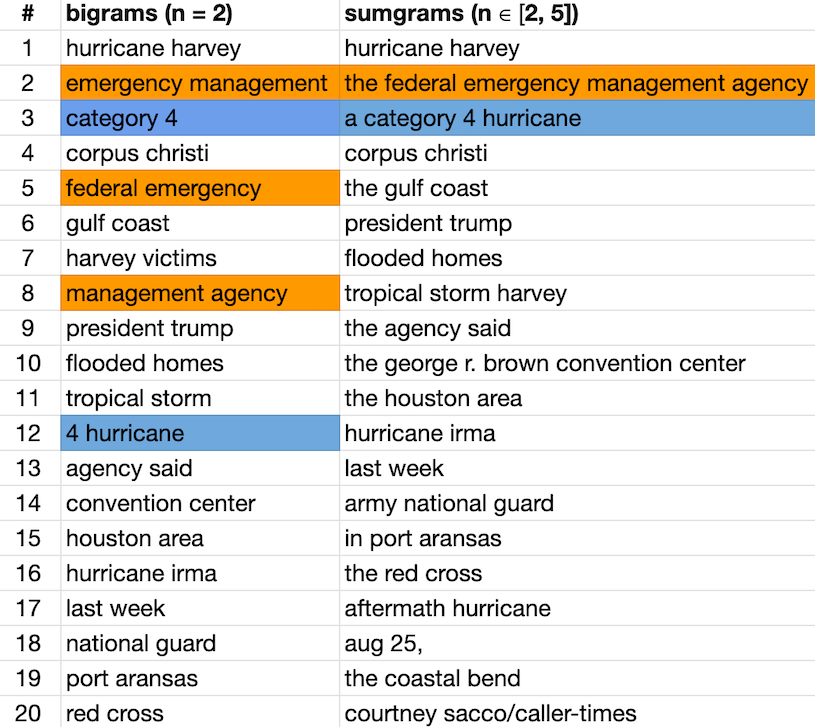
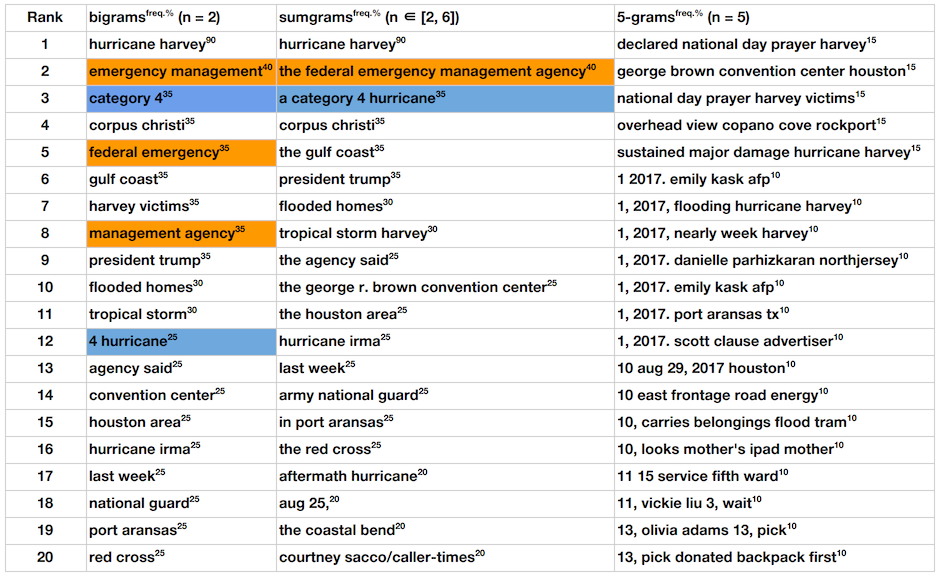
readme: added freq. in images, added sumgram key in JSON output

diff --git a/sumgram/sumgram.py b/sumgram/sumgram.py
@@ -494,7 +494,7 @@ def rank_mltwd_proper_nouns(ngram, ngram_toks, sentences, params=None):
 	ngram = ngram.strip()
 
 	if( sent_count == 1 or ngram == '' ):
-		#it's possible for ngram = '', search for 'ngram_history'
+		#it's possible for ngram = '', search for 'sumgram_history'
 		return ''
 
 	window_size = 0
@@ -670,8 +670,8 @@ def pos_glue_split_ngrams(top_ngrams, k, pos_glue_split_ngrams_coeff, ranked_mul
 						
 						multi_word_proper_noun_dedup_set.add(multi_word_proper_noun)
 
-					top_ngrams[i].setdefault('ngram_history', [])
-					top_ngrams[i]['ngram_history'].append(new_ngram_dct)
+					top_ngrams[i].setdefault('sumgram_history', [])
+					top_ngrams[i]['sumgram_history'].append(new_ngram_dct)
 				
 				break
 
@@ -730,8 +730,8 @@ def mvg_window_glue_split_ngrams(top_ngrams, k, all_doc_sentences, params=None):
 
 				multi_word_proper_noun_dedup_set.add( multi_word_proper_noun['proper_noun'] )
 
-			top_ngrams[i].setdefault('ngram_history', [])
-			top_ngrams[i]['ngram_history'].append(new_ngram_dct)
+			top_ngrams[i].setdefault('sumgram_history', [])
+			top_ngrams[i]['sumgram_history'].append(new_ngram_dct)
 
 		if( params['no_parent_sentences'] == False ):
 			top_ngrams[i]['parent_sentences'] = phrase_cands_minus_toks
@@ -821,8 +821,8 @@ def rm_subset_top_ngrams(top_ngrams, k, rm_subset_top_ngrams_coeff, params):
 								'cur_ngram': parent_ngram_cand,
 								'annotator': 'subset'
 							}
-							top_ngrams[child_indx].setdefault('ngram_history', [])
-							top_ngrams[child_indx]['ngram_history'].append(new_ngram_dct)
+							top_ngrams[child_indx].setdefault('sumgram_history', [])
+							top_ngrams[child_indx]['sumgram_history'].append(new_ngram_dct)
 
 							logger.debug('\teven though parent (' + str(parent_indx) + ') is in lower index than child: ' + str(child_indx))
 							logger.debug('\treplacing child_ngram_cand:' + '"' + child_ngram_cand + '" with parent_ngram_cand: "' + parent_ngram_cand + '"')
@@ -841,7 +841,7 @@ def rm_subset_top_ngrams(top_ngrams, k, rm_subset_top_ngrams_coeff, params):
 
 	return top_ngrams
 	
-def print_top_ngrams(n, top_ngrams, top_ngram_count, params=None):
+def print_top_ngrams(n, top_ngrams, top_sumgram_count, params=None):
 
 	if( params is None ):
 		params = {}
@@ -852,14 +852,14 @@ def print_top_ngrams(n, top_ngrams, top_ngram_count, params=None):
 	mw = params['ngram_printing_mw']
 	ngram_count = len(top_ngrams)
 
-	logger.info('Summary for ' + str(ngram_count) + ' top n-grams (base n: ' + str(n) + '):')
+	logger.info('Summary for ' + str(ngram_count) + ' top sumgrams (base n: ' + str(n) + '):')
 	logger.info('')
 
 	if( params['title'] != '' ):
 		logger.info( params['title'] )
 
-	logger.info( '{:^6} {:<{mw}} {:^6} {:<6}'.format('rank', 'ngram', 'TF', 'TF-Rate', mw=mw) )
-	for i in range(top_ngram_count):
+	logger.info( '{:^6} {:<{mw}} {:^6} {:<6}'.format('rank', 'sumgram', 'TF', 'TF-Rate', mw=mw) )
+	for i in range(top_sumgram_count):
 		
 		if( i == ngram_count ):
 			break
@@ -975,7 +975,7 @@ def get_user_stopwords(comma_sep_stopwords):
 	add_stopwords = comma_sep_stopwords.split(',')
 	return set( [s.strip().lower() for s in add_stopwords] )
 
-def get_top_ngrams(doc_dct_lst, n=2, params=None):
+def get_top_sumgrams(doc_dct_lst, n=2, params=None):
 	
 	np.set_printoptions(threshold=np.inf, linewidth=120)
 
@@ -995,7 +995,7 @@ def get_top_ngrams(doc_dct_lst, n=2, params=None):
 	params.setdefault('binary_tf_flag', True)#Multiple occurrence of term T in a document counts as 1, TF = total number of times term appears in collection
 	params['stanford_corenlp_server'] = nlpIsServerOn()
 
-	logger.info('\nget_top_ngram():')
+	logger.info('\nget_top_sumgrams():')
 	if( params['stanford_corenlp_server'] == False ):
 		
 		logger.info('\n\tAttempting to start Stanford CoreNLP Server (we need it to segment sentences)\n')
@@ -1035,8 +1035,8 @@ def get_top_ngrams(doc_dct_lst, n=2, params=None):
 	if( len(top_ngrams) == 0 ):
 		return report
 	
-	if( params['top_ngram_count'] < 1 or params['top_ngram_count'] > len(top_ngrams) ):
-		params['top_ngram_count'] = len(top_ngrams)
+	if( params['top_sumgram_count'] < 1 or params['top_sumgram_count'] > len(top_ngrams) ):
+		params['top_sumgram_count'] = len(top_ngrams)
 	
 	'''
 		shifting is off by default
@@ -1044,7 +1044,7 @@ def get_top_ngrams(doc_dct_lst, n=2, params=None):
 		this may be required for comparing two different collections that have similar top terms
 		so shifting is an attempt to perform process non-top terms in order to find distinguishing ngrams below the top ngrams
 	'''
-	shift_factor = params['shift'] * params['top_ngram_count']	
+	shift_factor = params['shift'] * params['top_sumgram_count']	
 	if( shift_factor >= len(top_ngrams) ):
 		shift_factor = 0
 
@@ -1069,45 +1069,45 @@ def get_top_ngrams(doc_dct_lst, n=2, params=None):
 		params['tf_label'] = 'Collection Term Frequency (1 term count per document)'
 
 	params['tf_normalizing_divisor'] = N
-	report = { 'n': n, 'top_ngram_count': params['top_ngram_count']}
+	report = { 'n': n, 'top_sumgram_count': params['top_sumgram_count']}
 
 	logger.info('\tdoc_lst.len:' + str(doc_count))
 	logger.info('\ntop ngrams before finding multi-word proper nouns:')
-	print_top_ngrams( n, top_ngrams, params['top_ngram_count'], params=params )
+	print_top_ngrams( n, top_ngrams, params['top_sumgram_count'], params=params )
 	
 	if( params['no_pos_glue_split_ngrams'] == False ):
-		pos_glue_split_ngrams( top_ngrams, params['top_ngram_count'] * 2, params['pos_glue_split_ngrams_coeff'], multi_word_proper_nouns, params )
+		pos_glue_split_ngrams( top_ngrams, params['top_sumgram_count'] * 2, params['pos_glue_split_ngrams_coeff'], multi_word_proper_nouns, params )
 
-	#subset top_ngrams will be replace with their supersets, thus shrinking top_ngram_count counts after this operation, so maximize the chances of reporting user-supplied c, begin by processing: top_ngram_count * 2
+	#subset top_ngrams will be replace with their supersets, thus shrinking top_sumgram_count counts after this operation, so maximize the chances of reporting user-supplied c, begin by processing: top_sumgram_count * 2
 	if( params['no_mvg_window_glue_split_ngrams'] == False ):
-		mvg_window_glue_split_ngrams( top_ngrams, params['top_ngram_count'] * 2, all_doc_sentences, params=params )
+		mvg_window_glue_split_ngrams( top_ngrams, params['top_sumgram_count'] * 2, all_doc_sentences, params=params )
 	
 	logger.info('\ntop ngrams after finding multi-word proper nouns:')
-	print_top_ngrams( n, top_ngrams, params['top_ngram_count'], params=params )
+	print_top_ngrams( n, top_ngrams, params['top_sumgram_count'], params=params )
 	
-	top_ngrams = rm_subset_top_ngrams( top_ngrams, params['top_ngram_count'] * 2, params['rm_subset_top_ngrams_coeff'], params )
+	top_ngrams = rm_subset_top_ngrams( top_ngrams, params['top_sumgram_count'] * 2, params['rm_subset_top_ngrams_coeff'], params )
 	logger.info('\ntop ngrams after removing subset phrases:')
-	print_top_ngrams( n, top_ngrams, params['top_ngram_count'], params=params )
+	print_top_ngrams( n, top_ngrams, params['top_sumgram_count'], params=params )
 
-	top_ngrams = rm_empty_ngrams( top_ngrams, params['top_ngram_count'] * 2 )
+	top_ngrams = rm_empty_ngrams( top_ngrams, params['top_sumgram_count'] * 2 )
 
 	if( params['no_rank_docs'] == False ):
 		report['ranked_docs'] = get_ranked_docs( top_ngrams, doc_dct_lst )
 
 		if( params['sentences_rank_count'] > 0 and params['no_rank_sentences'] == False ):
-			ngram_sentences = combine_ngrams( top_ngrams[:params['top_ngram_count']] )
+			ngram_sentences = combine_ngrams( top_ngrams[:params['top_sumgram_count']] )
 			report['ranked_sentences'] = rank_sents_frm_top_ranked_docs( ngram_sentences, report['ranked_docs'], all_doc_sentences, params )
 
 		#remove doc_indx
 		report['ranked_docs'] = [d[1] for d in report['ranked_docs']]
 	
-	report['top_ngrams'] = top_ngrams[:params['top_ngram_count']]
+	report['top_sumgrams'] = top_ngrams[:params['top_sumgram_count']]
 	logger.info('\ntop ngrams after shifting empty slots:')
-	print_top_ngrams( n, top_ngrams, params['top_ngram_count'], params=params )
+	print_top_ngrams( n, top_ngrams, params['top_sumgram_count'], params=params )
 	
 
 	#fmt_report() need to be called last since it potentially could modify merged_ngrams
-	fmt_report( report['top_ngrams'], params )
+	fmt_report( report['top_sumgrams'], params )
 	report['params'] = params
 	report['params']['collection_doc_count'] = doc_count
 
@@ -1121,10 +1121,10 @@ def get_args():
 	parser = argparse.ArgumentParser()
 	parser.add_argument('path', help='Folder path containing input documents or path to single file')
 	
-	parser.add_argument('-n', help='The base n (integer) for generating top ngrams, if n = 2, bigrams would be the base ngram', type=int, default=2)
+	parser.add_argument('-n', help='The base n (integer) for generating top sumgrams, if n = 2, bigrams would be the base ngram', type=int, default=2)
 	parser.add_argument('-o', '--output', help='Output file')
 	parser.add_argument('-s', '--sentences-rank-count', help='The count of top ranked sentences to generate', type=int, default=10)	
-	parser.add_argument('-t', '--top-ngram-count', help='The count of top ngrams to generate', type=int, default=10)
+	parser.add_argument('-t', '--top-sumgram-count', help='The count of top sumgrams to generate', type=int, default=10)
 	
 	parser.add_argument('--add-stopwords', help='Comma-separated list of additional stopwords', default='')
 	parser.add_argument('--corenlp-host', help='Stanford CoreNLP Server host (needed for decent sentence tokenizer)', default='localhost')
@@ -1153,12 +1153,12 @@ def get_args():
 	parser.add_argument('--sentence-tokenizer', help='For sentence ranking: Method for segmenting sentences', choices=['ssplit', 'regex'], default='ssplit')
 	parser.add_argument('--shift', help='Factor to shift top ngram calculation', type=int, default=0)
 	parser.add_argument('--token-pattern', help='Regex string that specifies tokens for document tokenization', default=r'(?u)\b[a-zA-Z\'\’-]+[a-zA-Z]+\b|\d+[.,]?\d*')
-	parser.add_argument('--title', help='Text label to be used as a heading when printing top ngrams', default='')
+	parser.add_argument('--title', help='Text label to be used as a heading when printing top sumgrams', default='')
 
 	return parser
 
 def get_default_args(user_params):
-	#to be used by those who do not use this program from main, but call get_top_ngrams directly
+	#to be used by those who do not use this program from main, but call get_top_sumgrams directly
 	parser = get_args()
 	for key, val in parser._option_string_actions.items():
 		
@@ -1173,7 +1173,7 @@ def get_default_args(user_params):
 
 
 def proc_req(doc_lst, params):
-	report = get_top_ngrams(doc_lst, params['n'], params)
+	report = get_top_sumgrams(doc_lst, params['n'], params)
 	if( params['output'] is not None ):
 		dumpJsonToFile( params['output'], report, indentFlag=params['pretty_print'] )
 

diff --git a/README.md b/README.md
@@ -168,7 +168,7 @@ with open('sumgrams.json', 'w') as outfile:
 sumgram [options] path/to/collection/of/text/files/
 
 Options:
--n=2                                      Base n (int) for generating top ngrams, if n = 2, bigrams are generated
+-n=2                                      The base n (int) for generating top sumgrams, if n = 2, bigrams become the base ngram
 -o, --output                              Output file
 -s, --sentences-rank-count=10             The count of top ranked sentences to generate
 -t, --top-ngram-count=10                  The count of top ngrams to generate
@@ -200,7 +200,7 @@ Options:
 --sentence-tokenizer=ssplit               For sentence ranking: Method for segmenting sentences, options: {ssplit, regex}
 --shift=0                                 Factor to shift top ngram calculation
 --token-pattern                           Regex string that specifies tokens for document tokenization. Default = '\b[a-zA-Z\'\’-]+[a-zA-Z]+\b|\d+[.,]?\d*'
---title                                   Text label to be used as a heading when printing top ngrams
+--title                                   Text label to be used as a heading when printing top sumgrams
 ```
 
 ### Algorithms for detecting and gluing split Multi-Word Proper Noun (MWPN) ngrams
